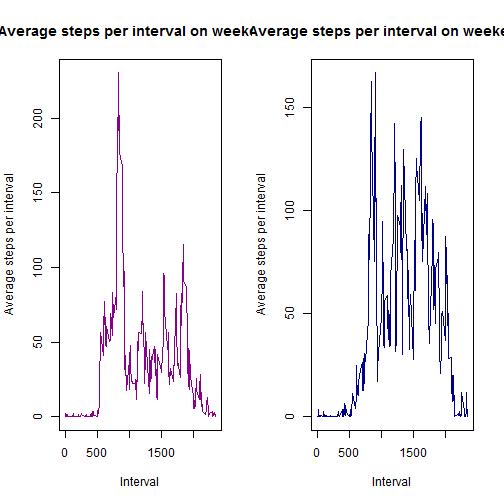
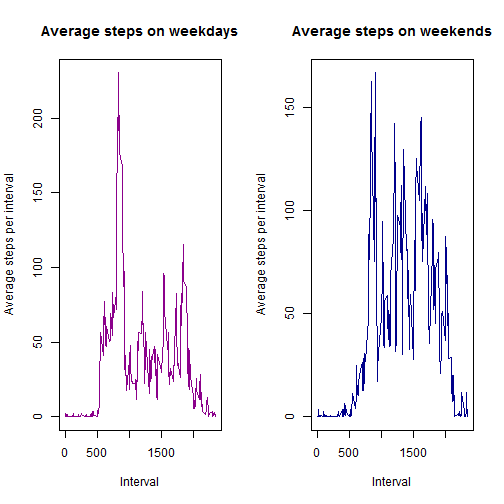
Second commit

Changed region(s): [[0.0, 0.0298, 1.0, 0.0893]]

diff --git a/PA1_template.html b/PA1_template.html
@@ -467,19 +467,19 @@ plot(names(tapply(weekday.data$steps, weekday.data$interval, mean)),
      tapply(weekday.data$steps, weekday.data$interval, mean), 
      type=&quot;l&quot;, 
      col=&quot;darkmagenta&quot;,
-     main=&quot;Average steps per interval on weekdays&quot;, 
+     main=&quot;Average steps on weekdays&quot;, 
      xlab=&quot;Interval&quot;, 
      ylab=&quot;Average steps per interval&quot;)
 plot(names(tapply(weekend.data$steps, weekend.data$interval, mean)), 
      tapply(weekend.data$steps, weekend.data$interval, mean), 
      type=&quot;l&quot;, 
      col=&quot;blue4&quot;,
-     main=&quot;Average steps per interval on weekends&quot;, 
+     main=&quot;Average steps on weekends&quot;, 
      xlab=&quot;Interval&quot;, 
      ylab=&quot;Average steps per interval&quot;)
 </code></pre>
 
[2 lines of base64/hex data omitted]
 
 </body>
 

diff --git a/PA1_template.md b/PA1_template.md
@@ -281,14 +281,14 @@ plot(names(tapply(weekday.data$steps, weekday.data$interval, mean)),
      tapply(weekday.data$steps, weekday.data$interval, mean), 
      type="l", 
      col="darkmagenta",
-     main="Average steps per interval on weekdays", 
+     main="Average steps on weekdays", 
      xlab="Interval", 
      ylab="Average steps per interval")
 plot(names(tapply(weekend.data$steps, weekend.data$interval, mean)), 
      tapply(weekend.data$steps, weekend.data$interval, mean), 
      type="l", 
      col="blue4",
-     main="Average steps per interval on weekends", 
+     main="Average steps on weekends", 
      xlab="Interval", 
      ylab="Average steps per interval")
 ```
